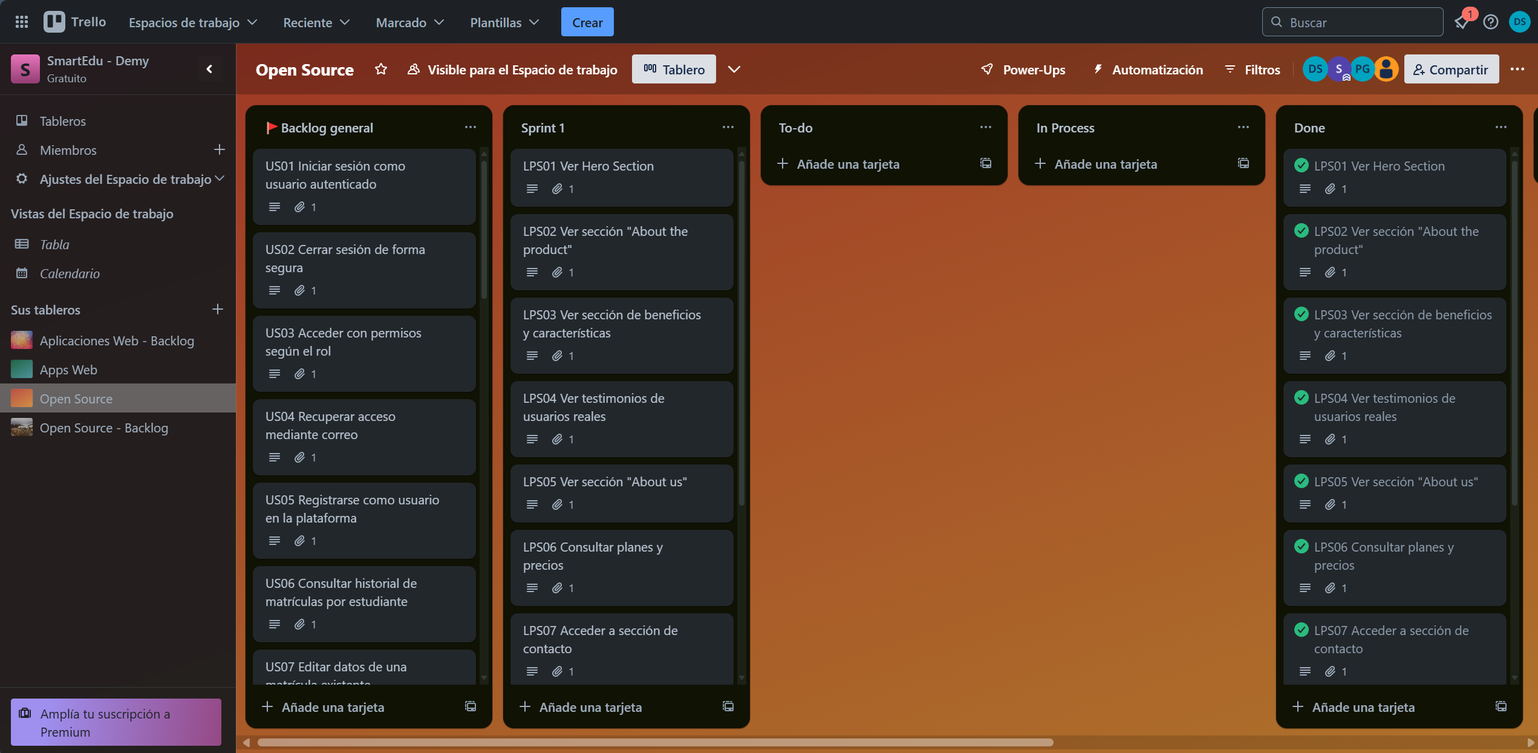
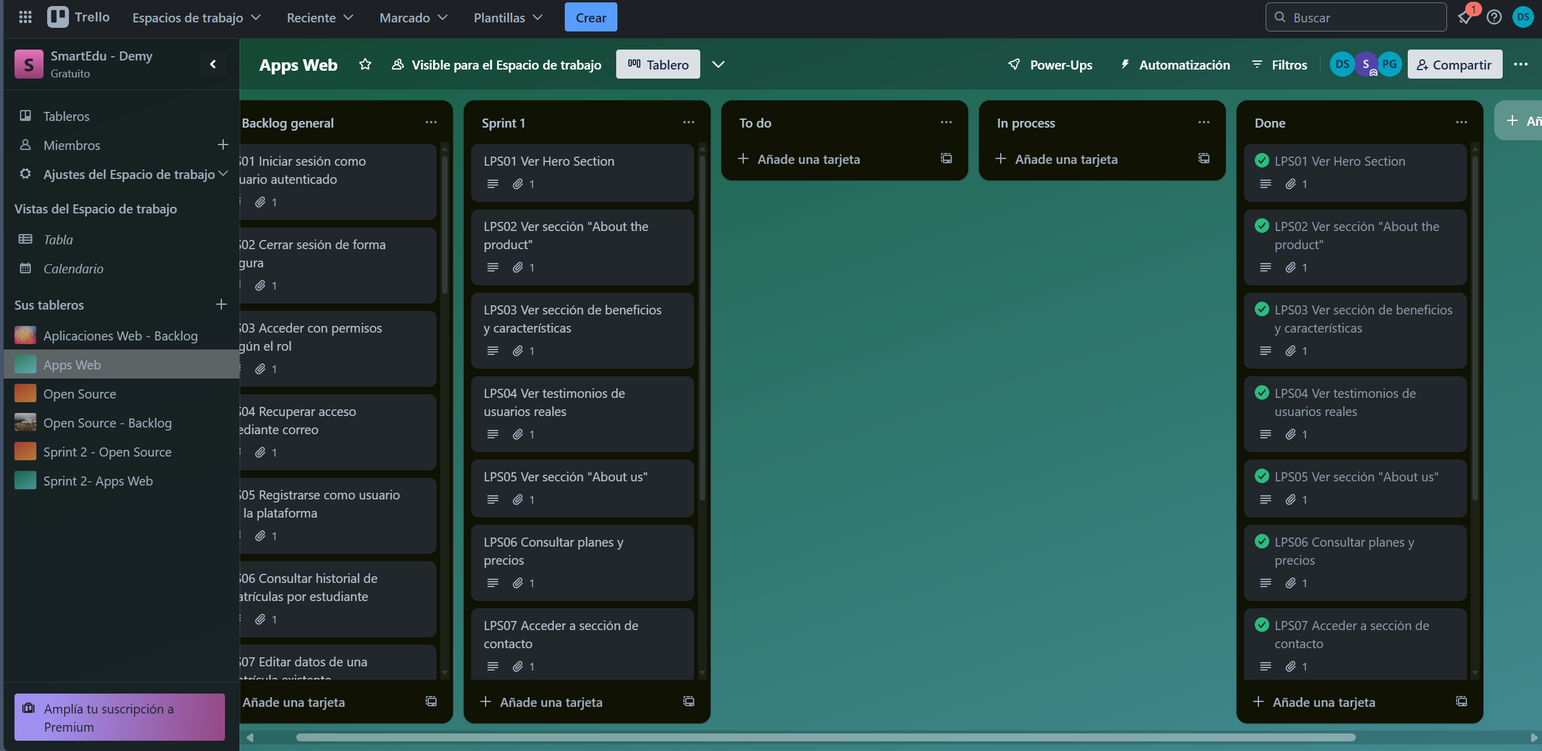
docs: add sprint 2 backlog

diff --git a/README.md b/README.md
@@ -28,23 +28,25 @@
 | U20221C486 | Sulca Gonzales, Paúl Fernando      |
 | U20231A778 | Vilca Saboya, Diego Alejandro      |
 
-<h5 style="text-align: center"> Ciclo 2025-01 </h5>
+<h5 style="text-align: center"> Ciclo 2025-10 </h5>
 
 # Registro de Versiones del Informe
 
-| Versión | Fecha      | Autor                                                                                    | Descripción de modificación                                                                                                                                                                                                                                                                 |
-|---------|------------|------------------------------------------------------------------------------------------|---------------------------------------------------------------------------------------------------------------------------------------------------------------------------------------------------------------------------------------------------------------------------------------------|
-| 1.0     | 08/04/2025 | Salim Ramirez                                                                            | Creación inicial del documento de trabajo en formato Markdown para centralizar el desarrollo del informe final.                                                                                                                                                                             |
-| 1.1     | 10/04/2025 | Paúl Sulca                                                                               | Se agregó la carátula, tabla de contenidos y la estructura básica del informe siguiendo las pautas del curso.                                                                                                                                                                               |
-| 2.0     | 12/04/2025 | Daniel Crispin <br> Rafael Dominguez <br> Salim Ramirez <br> Paúl Sulca <br> Diego Vilca | Se completó el Capítulo I: Introducción. Se definieron objetivos, contexto, visión general del producto.                                                                                                                                                                                    |
-| 2.1     | 12/04/2025 | Daniel Crispin <br> Rafael Dominguez <br> Salim Ramirez <br> Paúl Sulca <br> Diego Vilca | Se agregaron los resultados de entrevistas y análisis de competidores, como parte del Capítulo II.                                                                                                                                                                                          |
-| 3.0     | 13/05/2025 | Daniel Crispin <br> Rafael Dominguez <br> Salim Ramirez <br> Paúl Sulca <br> Diego Vilca | Se completó el Capítulo II: Requirements Elicitation & Analysis, incluyendo personas, escenarios y requerimientos iniciales.                                                                                                                                                                |
-| 3.1     | 16/05/2025 | Daniel Crispin <br> Rafael Dominguez <br> Salim Ramirez <br> Paúl Sulca <br> Diego Vilca | Se integraron las User Stories, Landing Page Stories y Technical Stories como parte del Capítulo III.                                                                                                                                                                                       |
-| 4.0     | 18/05/2025 | Daniel Crispin <br> Rafael Dominguez <br> Salim Ramirez <br> Paúl Sulca <br> Diego Vilca | Se completó el Capítulo III: Requirements Specification, detallando los criterios de aceptación y modelo de casos de uso.                                                                                                                                                                   |
-| 4.1     | 21/05/2025 | Daniel Crispin <br> Rafael Dominguez <br> Salim Ramirez <br> Paúl Sulca <br> Diego Vilca | Se añadieron los style guidelines, mockups, wireframes, wireflow y userflow en el Capítulo IV: Product Design.                                                                                                                                                                              |
-| 5.0     | 23/05/2025 | Daniel Crispin <br> Rafael Dominguez <br> Salim Ramirez <br> Paúl Sulca <br> Diego Vilca | Se completó el Capítulo IV: Product Design, incluyendo arquitectura de componentes, estructura visual y navegación.                                                                                                                                                                         |
-| 5.1     | 25/05/2025 | Daniel Crispin <br> Rafael Dominguez <br> Salim Ramirez <br> Paúl Sulca <br> Diego Vilca | Se desarrolló la sección de Software Configuration Management. Se añadió la planificación del Sprint 1.                                                                                                                                                                                     |
-| 6.0     | 25/05/2025 | Daniel Crispin <br> Rafael Dominguez <br> Salim Ramirez <br> Paúl Sulca <br> Diego Vilca | Se completó el Capítulo V: Product Implementation, incluyendo evidencias de avance en el desarrollo de la Landing Page.                                                                                                                                                                     |
+| Versión | Fecha      | Autor                                                                                        | Descripción de modificación                                                                                                  |
+|---------|------------|----------------------------------------------------------------------------------------------|------------------------------------------------------------------------------------------------------------------------------|
+| 1.0     | 08/04/2025 | Salim Ramirez                                                                                | Creación inicial del documento de trabajo en formato Markdown para centralizar el desarrollo del informe final.              |
+| 1.1     | 10/04/2025 | Paúl Sulca                                                                                   | Se agregó la carátula, tabla de contenidos y la estructura básica del informe siguiendo las pautas del curso.                |
+| 2.0     | 12/04/2025 | Daniel Crispin <br> Rafael Dominguez <br> Salim Ramirez <br> Paúl Sulca <br> Diego Vilca     | Se completó el Capítulo I: Introducción. Se definieron objetivos, contexto, visión general del producto.                     |
+| 2.1     | 12/04/2025 | Daniel Crispin <br> Rafael Dominguez <br> Salim Ramirez <br> Paúl Sulca <br> Diego Vilca     | Se agregaron los resultados de entrevistas y análisis de competidores, como parte del Capítulo II.                           |
+| 3.0     | 13/04/2025 | Daniel Crispin <br> Rafael Dominguez <br> Salim Ramirez <br> Paúl Sulca <br> Diego Vilca     | Se completó el Capítulo II: Requirements Elicitation & Analysis, incluyendo personas, escenarios y requerimientos iniciales. |
+| 3.1     | 16/04/2025 | Daniel Crispin <br> Rafael Dominguez <br> Salim Ramirez <br> Paúl Sulca <br> Diego Vilca     | Se integraron las User Stories, Landing Page Stories y Technical Stories como parte del Capítulo III.                        |
+| 4.0     | 18/04/2025 | Daniel Crispin <br> Rafael Dominguez <br> Salim Ramirez <br> Paúl Sulca <br> Diego Vilca     | Se completó el Capítulo III: Requirements Specification, detallando los criterios de aceptación y modelo de casos de uso.    |
+| 4.1     | 21/04/2025 | Daniel Crispin <br> Rafael Dominguez <br> Salim Ramirez <br> Paúl Sulca <br> Diego Vilca     | Se añadieron los style guidelines, mockups, wireframes, wireflow y userflow en el Capítulo IV: Product Design.               |
+| 5.0     | 23/04/2025 | Daniel Crispin <br> Rafael Dominguez <br> Salim Ramirez <br> Paúl Sulca <br> Diego Vilca     | Se completó el Capítulo IV: Product Design, incluyendo arquitectura de componentes, estructura visual y navegación.          |
+| 5.1     | 25/04/2025 | Daniel Crispin <br> Rafael Dominguez <br> Salim Ramirez <br> Paúl Sulca <br> Diego Vilca     | Se desarrolló la sección de Software Configuration Management. Se añadió la planificación del Sprint 1.                      |
+| 6.0     | 25/04/2025 | Daniel Crispin <br> Rafael Dominguez <br> Salim Ramirez <br> Paúl Sulca <br> Diego Vilca     | Se completó el Capítulo V: Product Implementation, incluyendo evidencias de avance en el desarrollo de la Landing Page.      |
+| 6.1     | 02/04/2025 | Daniel Crispin <br> Rafael Dominguez <br> Salim Ramirez <br> Paúl Sulca <br> Diego Vilca     | Se corrigió errores ortográficos, tablas y detalles de otros artefactos                                                      |
+| 7.0     | 14/05/25   | Daniel Crispin <br> Rafael Dominguez <br> Salim Ramirez <br> Paúl Sulca <br> Diego Vilca     | Se agrego toda la sección del Sprint 2 y se levanto observaciones de la TB1 anterior                                         |
 
 # Project Report Collaboration Insights
 
@@ -2923,6 +2925,108 @@ Enlace para acceder al landing page: https://demy-smartedu.netlify.app/
 
 En esta sección se presentan las principales conclusiones del equipo respecto al desarrollo del modelo de negocio digital, alineadas a los Problem Statements e hipótesis del proceso Lean UX.
 Se contrastan los hallazgos obtenidos con la implementación realizada durante este primer sprint.
+
+### 5.2.2. Sprint 2
+
+#### 5.2.2.1. Sprint Planning 2.
+
+#### 5.2.2.2. Aspect Leaders and Collaborators.
+
+#### 5.2.2.3. Sprint Backlog 2.
+
+El segundo sprint estuvo dedicado exclusivamente al desarrollo del FrontEnd de nuestra aplicación web.<br>
+El objetivo principal de este sprint fue implementar el FrontEnd en su totalidad.
+
+A continuación, se presenta una captura de pantalla de la herramienta de control que usamos, que fue Trello:
+![Captura de Trello Sprint 2 Apps Web](./assets/screenshots/trello-sprint2-appweb.png)
+
+Link del Trello: https://trello.com/invite/b/6819755e077e95c6b3682a8b/ATTIea86605d185797427dccb42b00317046C9E12A91/sprint-2-apps-web
+
+<div style="font-size:80%; overflow-x:auto;">
+<table border="1" cellspacing="0" cellpadding="5">
+  <thead>
+    <tr>
+      <th colspan="2">Sprint #</th>
+      <th colspan="6">Sprint 2</th>
+    </tr>
+    <tr>
+      <th colspan="2">User Story</th>
+      <th colspan="6">Work-Item / Task</th>
+    </tr>
+    <tr>
+      <th>Id</th>
+      <th>Title</th>
+      <th>Id</th>
+      <th>Title</th>
+      <th>Description</th>
+      <th>Estimation (Hours)</th>
+      <th>Assigned To</th>
+      <th>Status</th>
+    </tr>
+  </thead>
+  <tbody>
+<tr><td>US01</td><td>Iniciar sesión como usuario autenticado</td><td>US01a</td><td>Implementar la vista de login</td><td>Maquetar el formulario, aplicar estilos, usar los componentes de la biblioteca UI correspondiente</td><td>4</td><td>Rafael</td><td>Done</td></tr>
+<tr><td>US01</td><td>Iniciar sesión como usuario autenticado</td><td>US01b</td><td>Archivos db.json y i18n para el login</td><td>Agregar los archivos json  del fake api y para el idioma español e inglés</td><td>4</td><td>Rafael</td><td>Done</td></tr>
+<tr><td>US02</td><td>Cerrar sesión de forma segura</td><td>US02a</td><td>Implementar cerrar sesión</td><td>Agregar una opción de cerrar sesión en el header</td><td>4</td><td>Rafael</td><td>Done</td></tr>
+<tr><td>US02</td><td>Cerrar sesión de forma segura</td><td>US02b</td><td>Aplicar i18n</td><td>Agregar los archivos json para el idioma español e inglés</td><td>4</td><td>Rafael</td><td>Done</td></tr>
+<tr><td>US03</td><td>Acceder con permisos según el rol</td><td>US03a</td><td>Agregar la vista de tipo de usuario</td><td>Agregar la vista de elección de tipo de usuario y configurar el path dependiendo de la elección</td><td>4</td><td>Rafael</td><td>Done</td></tr>
+<tr><td>US03</td><td>Acceder con permisos según el rol</td><td>US03b</td><td>Aplicar i18n</td><td>Agregar los archivos json de en y es</td><td>4</td><td>Rafael</td><td>Done</td></tr>
+<tr><td>US04</td><td>Recuperar acceso mediante correo</td><td>US04a</td><td>Agregar la vista de recuperar acceso</td><td>Agregar la opción de me olvidé mi contraseña y la vista de ingresar el correo donde se mandará el enlace de nueva contraseña</td><td>5</td><td>Rafael</td><td>To-do</td></tr>
+<tr><td>US04</td><td>Recupera acceso mediante correo</td><td>US04b</td><td>Integración + i18n de la vista de recuperación</td><td>Implementar el consumo del Fake API junto a los archivos json del i18n</td><td>4</td><td>Rafael</td><td>To-do</td></tr>
+<tr><td>US05</td><td>Registrarse como usuario en la plataforma</td><td>US05a</td><td>Maquetar la vista de Registro</td><td>Agregar la vista de registro usando la biblioteca de componentes UI correspondiente</td><td>4</td><td>Rafael</td><td>In progress</td></tr>
+<tr><td>US05</td><td>Registrarse como usuario en la plataforma</td><td>US05b</td><td>Integración de la vista login con Fake API y i18n</td><td>Implementar el consumo del Fake API junto a los archivos i18n de en y es</td><td>4</td><td>Paul</td><td>In progress</td></tr>
+<tr><td>US06</td><td>Registrar matrícula de un estudiante</td><td>US06a</td><td>Maquetar la vista de registro de matrícula</td><td>Agregar la vista de registro de matrícula utilizando la biblioteca de componentes UI correspondiente</td><td>5</td><td>Paul</td><td>In progress</td></tr>
+<tr><td>US06</td><td>Registrar matrícula de un estudiante</td><td>US06b</td><td>Integración de la vista de registro de matrícula con Fake API y i18n</td><td>Implementar el consumo del Fake API junto a los archivos de i18n en  y es para la vista</td><td>4</td><td>Paul</td><td>In progress</td></tr>
+<tr><td>US07</td><td>Consultar historial de matrículas por estudiante</td><td>US07a</td><td>Maquetar la vista de consulta de matrículas por estudiante</td><td>Implementar la vista de consulta de matriculas por estudiante utilizando la biblioteca de componentes UI correspondiente</td><td>4</td><td>Paul</td><td>To-do</td></tr>
+<tr><td>US07</td><td>Consultar historial de matrículas por estudiante</td><td>US07b</td><td>Integración de la vista de consulta de matrícula con Fake API y i18n</td><td>Implementar el consumo del Fake API junto a los archivos de i18n en  y es para la vista correspondiente</td><td>4</td><td>Paul</td><td>To-do</td></tr>
+<tr><td>US08</td><td>Editar datos de una matrícula existente</td><td>US08a</td><td>Maquetar la vista de editar datos de una matrícula</td><td>Agregar la opción de editar datos e implementar su vista utilizando la biblioteca de componentes UI correspondiente</td><td>4</td><td>Paul</td><td>To-do</td></tr>
+<tr><td>US08</td><td>Editar datos de una matrícula existente</td><td>US08b</td><td>Integración de la vista de editar datos con Fake API y i18n</td><td>Implementar el consumo del Fake API y archivos en y es para la vista correspondiente</td><td>4</td><td>Paul</td><td>To-do</td></tr>
+<tr><td>US09</td><td>Eliminar una matrícula registrada</td><td>US09a</td><td>Maquetar la vista de eliminar una matrícula registrada</td><td>Agregar la opción de liminar una matrícula e implementar su vista utilizando la biblioteca de componentes UI correspondiente</td><td>4</td><td>Paul</td><td>To-do</td></tr>
+<tr><td>US09</td><td>Eliminar una matrícula registrada</td><td>US09b</td><td>Integración de la vista de eliminar matrícula con Fake API y i18n</td><td>Implementar el consumo del Fake API y los archivos en y es para la vista correspondiente</td><td>5</td><td>Paul</td><td>To-do</td></tr>
+<tr><td>US10</td><td>Visualizar resumen de estudiantes matriculados</td><td>US10a</td><td>Maquetar la vista de resumen de estudiantes matriculados</td><td>Agregar la opción de ver una lista de los estudiantes matriculados y su vista, utilizando la biblioteca de componentes UI correspondiente</td><td>4</td><td>Paul</td><td>Done</td></tr>
+<tr><td>US10</td><td>Visualizar resumen de estudiantes matriculados</td><td>US10b</td><td>Integración de la vista de visualizar resumen de estudiantes con Fake API y i18n</td><td>Implementar el consumo del Fake API y los archivos en y es para la vista correspondiente</td><td>4</td><td>Paul</td><td>Done</td></tr>
+<tr><td>US11</td><td>Registrar asistencia de  estudiante por clase</td><td>US11a</td><td>Maquetar la vista de registro de asistencia</td><td>Agregar la opción de registro de asistencia de un estudiante y su vista, utilizando la biblioteca de componentes UI correspondiente</td><td>5</td><td>Diego</td><td>To-do</td></tr>
+<tr><td>US11</td><td>Registrar asistencia de  estudiante por clase</td><td>US11b</td><td>Integración de la vista de registro de asistencia con Fake API y i18n</td><td>Implementar el consumo del Fake API y los archivos en y es para la vista correspondiente</td><td>4</td><td>Diego</td><td>To-do</td></tr>
+<tr><td>US12</td><td>Consultar asistencia de un estudiante</td><td>US12a</td><td>Maquetar la vista de consulta de asistencia de un estudiante</td><td>Agregar la opción de consultar las asistencias de un estudiante y su vista, utilizando la biblioteca de componentes UI correspondiente</td><td>5</td><td>Diego</td><td>To-do</td></tr>
+<tr><td>US12</td><td>Consultar asistencia de un estudiante</td><td>US12b</td><td>Integración de la vista de consulta de asistencia con Fake API y i18n</td><td>Implementar el consumo del Fake API y los archivos en y es para la vista correspondiente</td><td>4</td><td>Diego</td><td>To-do</td></tr>
+<tr><td>US13</td><td>Recibir notificaciones sobre inasistencias</td><td>US13a</td><td>Agregar el envío de notificaciones por inasistencias</td><td>Implementar el envió de notificación a una bandeja de entrada cuando el número de inasistencias sea alto</td><td>5</td><td>Diego</td><td>Done</td></tr>
+<tr><td>US13</td><td>Recibir notificaciones sobre inasistencias</td><td>US13b</td><td>Integración de las notificaciones de inasistencias con Fake API u i18n</td><td>Implementar el consumo del Fake API y los archivos en y es para la notificación correspondiente</td><td>4</td><td>Diego</td><td>Done</td></tr>
+<tr><td>US14</td><td>Registrar pago de un estudiante</td><td>US14a</td><td>Maquetar la vista de registrar pago de un estudiante</td><td>Agregar la opción de registro de pago de un estudiante y su vista, utilizando la biblioteca de componentes UI correspondiente</td><td>5</td><td>Salim</td><td>Done</td></tr>
+<tr><td>US14</td><td>Registrar pago de un estudiante</td><td>US14b</td><td>Integración de la vista de registro de pago con Fake API y i18n</td><td>Implementar el consumo del Fake API y los archivos en y es para la vista correspondiente</td><td>4</td><td>Salim</td><td>Done</td></tr>
+<tr><td>US15</td><td>Consultar estado de pago de un estudiante</td><td>US15a</td><td>Maquetar la vista de consulta de estado de pago de un estudiante</td><td>Agregar la opción de consultar el estado de pago de un estudiante y su vista, utilizando la biblioteca de componentes UI correspondiente</td><td>5</td><td>Salim</td><td>To-do</td></tr>
+<tr><td>US15</td><td>Consultar estado de pago de un estudiante</td><td>US15b</td><td>Integración de la vista de consulta de estado de pago con Fake API y i18n</td><td>Implementar el consumo del Fake API y los archivos en y es para la vista correspondiente</td><td>4</td><td>Salim</td><td>To-do</td></tr>
+<tr><td>US16</td><td>Recibir alertas por pagos vencidos</td><td>US16a</td><td>Agregar el envío de notificaciones/alertas por pagos vencidos</td><td>Implementar el envío de una notificación sobre un pago vencido a la bandeja de entrada</td><td>4</td><td>Diego</td><td>Done</td></tr>
+<tr><td>US16</td><td>Recibir alertas por pagos vencidos</td><td>US16b</td><td>Integración de las notificaciones por pagos vencidos con Fake API y i18n</td><td>Implementar el consumo del Fake API y los archivos en y es correspondiente</td><td>4</td><td>Diego</td><td>Done</td></tr>
+<tr><td>US17</td><td>Registrar egresos</td><td>US17a</td><td>Maquetar la vista de registrar egresos financieros</td><td>Agregar la opción de registrar egresos y su vista, utilizando la biblioteca de componentes UI correspondiente</td><td>5</td><td>Salim</td><td>Done</td></tr>
+<tr><td>US17</td><td>Registrar egresos</td><td>US17b</td><td>Integración de la vista de registrar egresos con Fake API y i18n</td><td>Implementar el consumo del Fake API y los archivos en y es para la vista correspondiente</td><td>4</td><td>Salim</td><td>Done</td></tr>
+<tr><td>US18</td><td>Generar reporte financiero mensual</td><td>US18a</td><td>Maquetar la vista de reporte de financiero mensual</td><td>Agregar la generación de reportes financieros por mes y su vista, utilizando la biblioteca de componentes UI correspondiente</td><td>5</td><td>Salim</td><td>Done</td></tr>
+<tr><td>US18</td><td>Generar reporte financiero mensual</td><td>US18b</td><td>Integración de la vista de reportes financieros mensuales con Fake API y i18n</td><td>Implementar el consumo del Fake API y los archivos en y es para la vista correspondiente</td><td>4</td><td>Salim</td><td>Done</td></tr>
+<tr><td>US19</td><td>Crear materias por periodo de estudio</td><td>US19a</td><td>Maquetar la vista de creación de materias por periodo de estudio</td><td>Agregar la opción de crear materias por periodo y su vista, utilizando la biblioteca de componentes UI correspondiente</td><td>4</td><td>Daniel</td><td>To-do</td></tr>
+<tr><td>US19</td><td>Crear materias por periodo de estudio</td><td>US19b</td><td>Integración de la vista de crear materias por periodo con Fake API y i18n</td><td>Implementar el consumo del Fake API y los archivos en y es para la vista correspondiente</td><td>4</td><td>Daniel</td><td>To-do</td></tr>
+<tr><td>US20</td><td>Asignar horarios a los docentes y cursos</td><td>US20a</td><td>Maquetar la vista de asignación de horarios para los docentes y cursos</td><td>Agregar la opción de asignar horarios a los docentes y los cursos con su vista, utilizando la biblioteca de componentes UI correspondiente</td><td>5</td><td>Daniel</td><td>To-do</td></tr>
+<tr><td>US20</td><td>Asignar horarios a los docentes y cursos</td><td>US20b</td><td>Integración de la vista de asignación de horarios a los docentes y cursos con Fake API y i18n</td><td>Implementar el consumo del Fake API y los archivos en y es para la vista correspondiente</td><td>4</td><td>Daniel</td><td>To-do</td></tr>
+<tr><td>US21</td><td>Consultar disponibilidad de salones</td><td>US21a</td><td>Maquetar la vista de consultar disponibilidad de salones</td><td>Agregar la opción de consultar disponibilidad de salones y su vista, utilizando la biblioteca de componentes UI correspondiente</td><td>5</td><td>Daniel</td><td>To-do</td></tr>
+<tr><td>US21</td><td>Consultar disponibilidad de salones</td><td>US21b</td><td>Integración de consultar disponibilidad de salones con Fake API y i18n</td><td>Implementar el consumo del Fake API y los archivos en y es para la vista correspondiente</td><td>4</td><td>Daniel</td><td>To-do</td></tr>
+<tr><td>US22</td><td>Reprogramar clases por cambio de horario</td><td>US22a</td><td>Maquetar la vista de reprogramación de clases por cambio de horario</td><td>Agregar la opción de reprogramar una clase mediante cambio de horario junto a su vista, utilizando la biblioteca de componentes UI correspondiente</td><td>5</td><td>Daniel</td><td>To-do</td></tr>
+<tr><td>US22</td><td>Reprogramar clases por cambio de horario</td><td>US22b</td><td>Integración de la vista de reprogramar clases con FakeAPI y i18n</td><td>Implementar el consumo del Fake API y los archivos en y es para la vista correspondiente</td><td>4</td><td>Daniel</td><td>To-do</td></tr>
+<tr><td>US23</td><td>Actualizar calendario del docente</td><td>US23a</td><td>Actualización del calendario</td><td>Implementar la actualización de la vista del horario  del docente cuando se reprograme una clase</td><td>6</td><td>Daniel</td><td>To-do</td></tr>
+<tr><td>US23</td><td>Actualizar calendario del docente</td><td>US23b</td><td>Integración con Fake API y i18n</td><td>Implementar el consumo del Fake API y los archivos en y es para la actualización del calendario</td><td>4</td><td>Daniel</td><td>To-do</td></tr>
+<tr><td>US24</td><td>Elegir plan de suscripción y método de pago</td><td>US24a</td><td>Elección de un plan de suscripción</td><td>Agregar la opción de escoger una plan de suscripción y que se afilie al usuario</td><td>6</td><td>Salim</td><td>Done</td></tr>
+<tr><td>US24</td><td>Elegir plan de suscripción y método de pago</td><td>US24b</td><td>Integración con Fake API y i18n</td><td>Implementar el consumo del Fake API y los archivos en y es para la afiliación del plan elegido por el usuario</td><td>5</td><td>Salim</td><td>Done</td></tr>
+<tr><td>US25</td><td>Ver el plan actual y sus características</td><td>US25a</td><td>Maquetación de  la vista de los planes ofrecidos por Demy</td><td>Implementar la vista de los planes ofrecidos por DEMY utilizando los cards de la biblioteca de componentes UI correspondiente</td><td>5</td><td>Salim</td><td>To-do</td></tr>
+<tr><td>US25</td><td>Ver el plan actual y sus características</td><td>US25b</td><td>Integración de la vista de planes ofrecidos por Demy con i18n y Fake API</td><td>Implementar el consumo del Fake API y los archivos en y es para la vista correspondiente</td><td>4</td><td>Salim</td><td>To-do</td></tr>
+<tr><td>US26</td><td>Ver bandeja de entrada con notificaciones</td><td>US26a</td><td>Maquetar la vista de bandeja de entrada</td><td>Agregar la opción de ver la bandeja de entrada y su vista, utilizando la biblioteca de componentes UI correspondiente</td><td>4</td><td>Diego</td><td>To-do</td></tr>
+<tr><td>US26</td><td>Ver bandeja de entrada con notificaciones</td><td>US26b</td><td>Integración de la vista de bandeja de entrada con Fake API y i18n</td><td>Implementar el consumo del Fake API y los archivos en y es para la vista correspondiente</td><td>4</td><td>Diego</td><td>To-do</td></tr>
+<tr><td>US27</td><td>Agregar profesores</td><td>US27a</td><td>Maquetación de la vista de agregar profesores</td><td>Agregar la opción de agregar profesores y su vista, utilizando la biblioteca de componentes UI correspondiente</td><td>5</td><td>Rafael</td><td>To-do</td></tr>
+<tr><td>US27</td><td>Agregar profesores</td><td>US27b</td><td>Integración de la vista de agregar profesores con FAKE API y i18n</td><td>Implementar el consumo del Fake API y los archivos en y es para la vista correspondiente</td><td>4</td><td>Rafael</td><td>To-do</td></tr>
+<tr><td>US28</td><td>Agregar Aula</td><td>US28a</td><td>Maquetación de la vista de agregar aulas</td><td>Agregar la opción de agregar aulas y su vista, utilizando la biblioteca de componentes UI correspondiente</td><td>5</td><td>Paul</td><td>Done</td></tr>
+<tr><td>US28</td><td>Agregar Aula</td><td>US28b</td><td>Integración de la vista de agregar aula con Fake API y i18n</td><td>Implementar el consumo del Fake API y los archivos en y es para la vista correspondiente</td><td>4</td><td>Paul</td><td>Done</td></tr>
+<tr><td>US29</td><td>Agregar periodo académico</td><td>US29a</td><td>Maquetación de la vista de agregar periodo académico</td><td>Agregar la opción de agregar periodo académico y su vista, utilizando la biblioteca de componentes UI correspondiente</td><td>5</td><td>Paul</td><td>Done</td></tr>
+<tr><td>US29</td><td>Agregar periodo académico</td><td>US29b</td><td>Integración de la vista de agregar periodo académico</td><td>Implementar el consumo del Fake API y los archivos en y es para la vista correspondiente</td><td>4</td><td>Paul</td><td>Done</td></tr>
+
+  </tbody>
+</table>
+</div>
 
 ## Conclusiones y Recomendaciones
 
